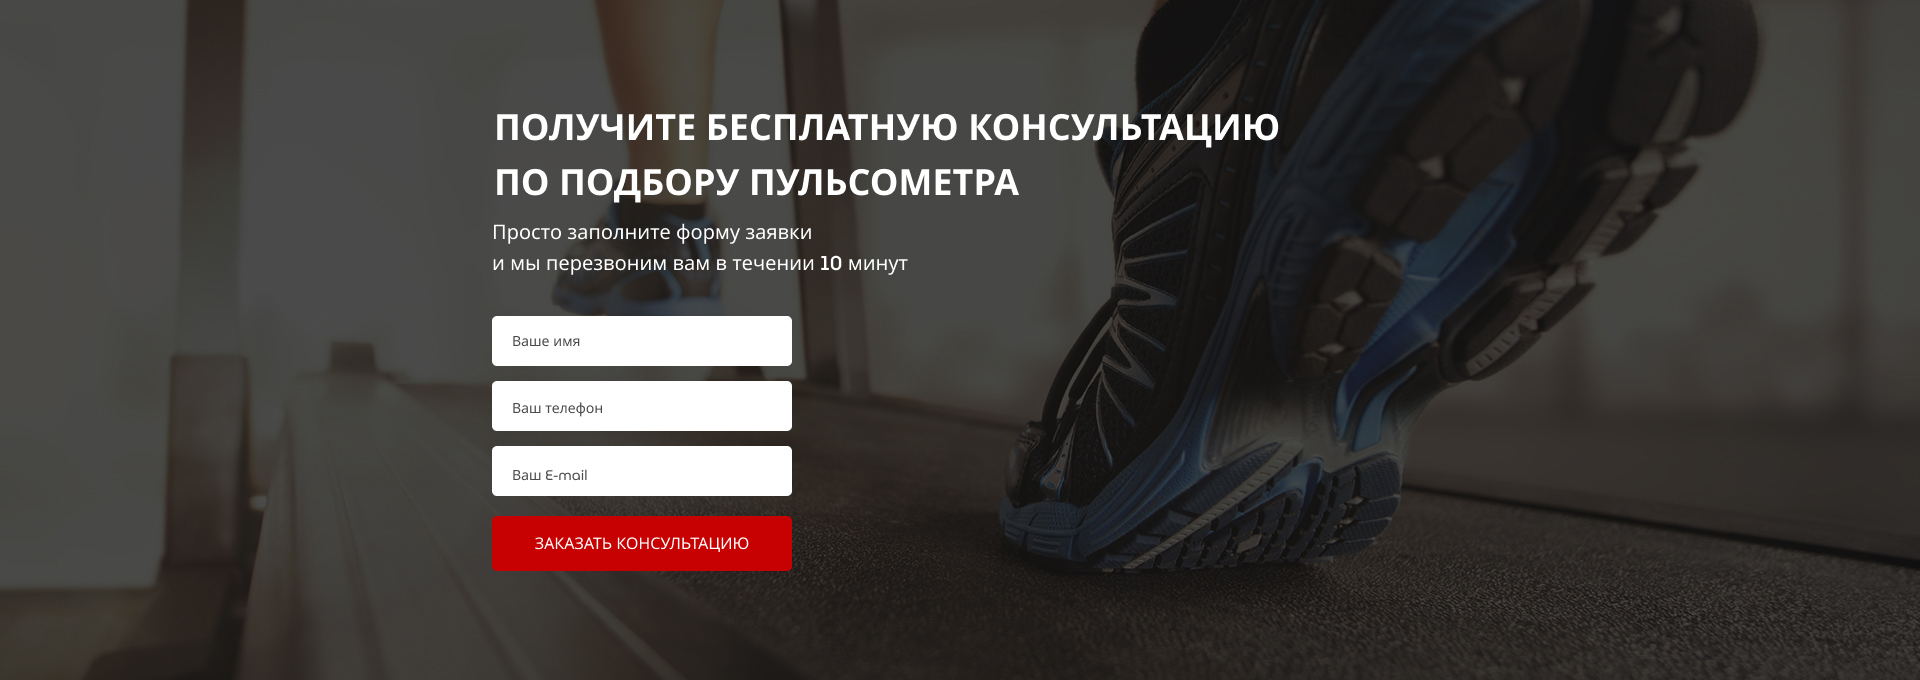
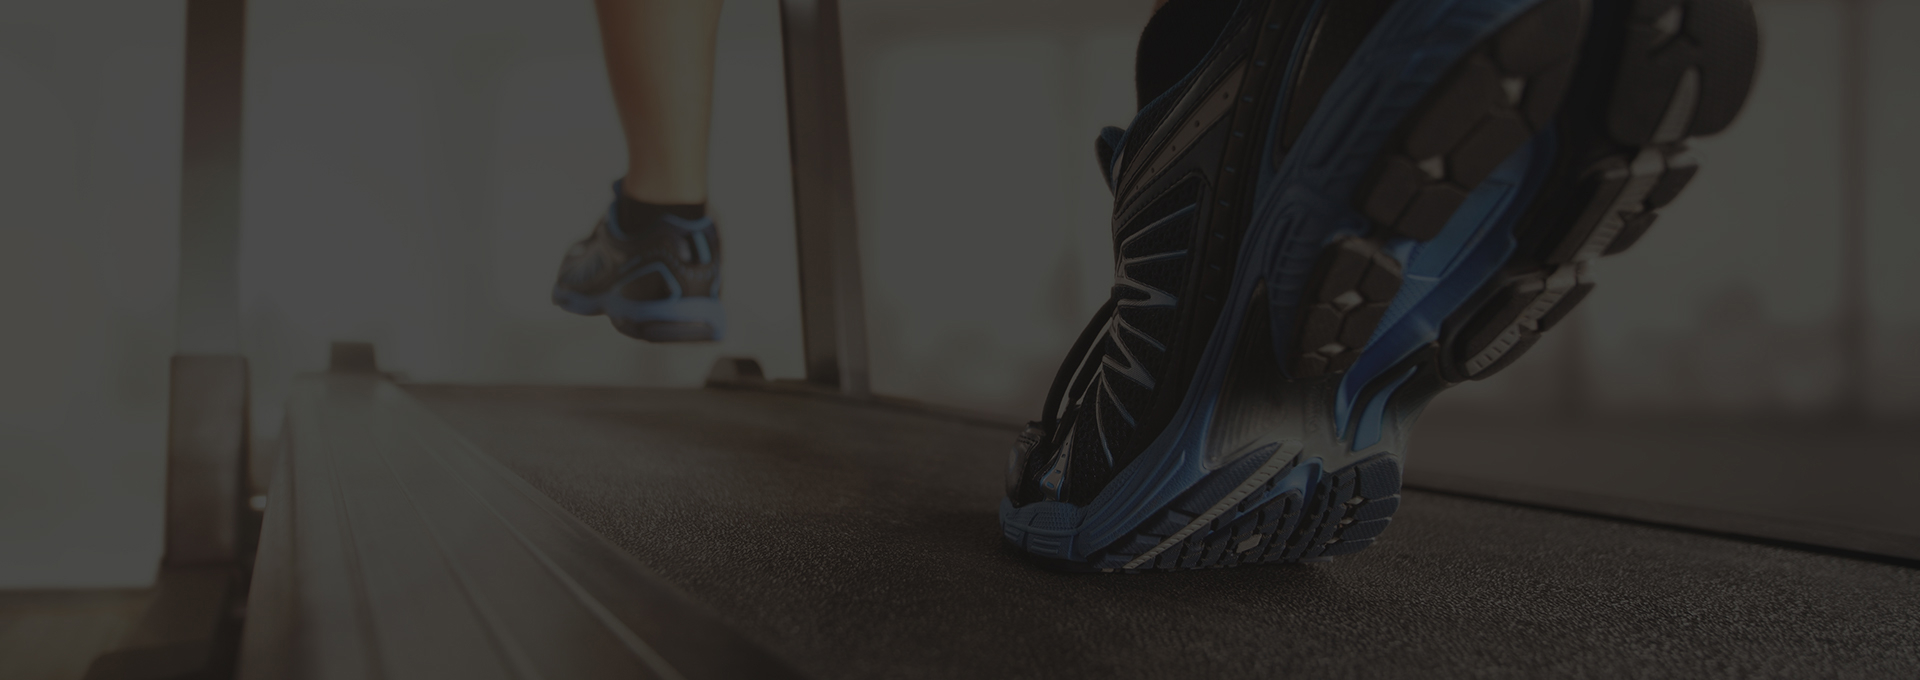
consultation screen v 0.3.0

diff --git a/src/css/style.min.css b/src/css/style.min.css
@@ -1,1 +1,1 @@
-*{box-sizing:border-box;font-family:MuseoModerno,sans-serif}.container{max-width:950px;margin:0 auto}.hamburger{visibility:hidden}.main{min-height:650px;padding:21px 0 93px 0;background:url(../../img/main/main_bg.jpg) center center/cover no-repeat}.main__wrapper{display:flex;flex-direction:column;align-items:flex-end;margin-top:90px}.main__header{color:#fff;font-weight:700;font-size:42px;text-transform:uppercase;line-height:42px}.main__subheader{margin-top:17px;color:#fff;font-weight:500;font-size:24px;line-height:24px;text-transform:uppercase}.main__icons{margin-top:60px;width:425px;display:flex;justify-content:space-between}.main__icon{width:108px;text-align:center;color:#fff;font-size:14px;font-weight:500}.main__icon img{display:block;margin:0 auto;margin-bottom:20px}.main__link{margin-top:18px;color:#fff;font-weight:500;font-size:16px}.main__link a{color:#fff;text-decoration:underline;text-transform:uppercase}.header{display:flex;justify-content:space-between;align-items:center}.header__logo{width:250px}.header__logo img{width:100%}.header__official{color:#fff;font-weight:500;font-size:12px;text-align:center}.header__official span{margin-top:7px;display:block;font-size:18px}.header__phone{display:block;font-weight:700;font-size:18px;color:#fff;text-decoration:none;transition:.3s all}.header__phone:hover{color:#fff;text-decoration:none;color:#c70101}.header__contacts{display:flex;flex-direction:column;align-items:flex-end}.button{width:150px;height:30px;border:none;border-radius:5px;color:#fff;background-color:#c70101;font-size:12px;font-weight:500;text-transform:uppercase}.button_main{margin-top:67px;width:300px;height:50px;font-size:16px}.title{font-weight:700;font-size:30px;color:#0d0d0d;text-transform:uppercase;text-align:center}.advantages{padding:70px 0 64px 0}.advantages__content{margin-top:60px;display:flex;justify-content:space-between;align-items:flex-start}.advantages__item{text-align:center;width:277px}.advantages__title{margin-top:35px;font-weight:700;font-size:18px;color:#0d0d0d}.advantages__text{margin-top:20px;font-weight:300;font-size:14px;line-height:18px;color:#0d0d0d}.advantages__text span{font-weight:300;font-size:14px;text-decoration-line:underline;color:red}@media(max-width:991px){.container{max-width:750px}.main__wrapper{margin-top:70px}.main____header{font-size:35px;line-height:30px}.main__subheader{margin-top:10px;font-size:20px}.advantages{padding:40px 0 37px 0}.advantages__content{margin-top:27px}.advantages__item{width:207px}}@media(max-width:767px){.container{max-width:550px}.header__logo{width:150px}.header__logo img{width:100%}.header__official span{margin-top:0;font-size:12px}.header__phone{font-size:14px}.button{width:129px}.button_main{margin-top:50px;width:220px;height:40px;font-size:14px}.main{min-height:500px;padding:15px 0 50px 0}.main__wrapper{margin-top:70px}.main__header{font-size:32px;line-height:10px}.main__subheader{font-size:16px}.main__icons{margin-top:40px;width:355px}.main__link{font-size:14px}.advantages{padding:20px 0 20px 0}.advantages__item{width:137px}.advantages__title{margin-top:15px;font-size:14px}.advantages__text{margin-top:10px;font-size:12px}.title{font-size:22px}}@media(max-width:575px){.container{max-width:300px}.header{display:none}.hamburger{visibility:visible;display:block;position:absolute;right:10px;width:26px;top:30px;right:30px;height:12px}.hamburger span{margin-bottom:2px;display:block;height:2px;width:100%;background-color:#fff;transition:.5s all}.hamburger__active span{margin-bottom:-2px}.hamburger__active span:nth-child(1){transform:translateY(3px) rotate(-45deg)}.hamburger__active span:nth-child(2){display:none}.hamburger__active span:nth-child(3){transform:translateY(3px) rotate(45deg)}.main__wrapper{margin-top:60px;align-items:center}.main__header{font-size:20px;line-height:0}.main__subheader{font-size:14px}.main__icons{width:300px;align-items:center}.title{font-size:20px}.advantages__content{margin-top:0;flex-direction:column;flex-wrap:wrap;align-items:center}.advantages__item{margin-top:30px;width:200px}}
+*{box-sizing:border-box;font-family:MuseoModerno,sans-serif}.container{max-width:950px;margin:0 auto}.hamburger{visibility:hidden}.main{min-height:650px;padding:21px 0 93px 0;background:url(../img/main/main_bg.jpg) center center/cover no-repeat}.main__wrapper{display:flex;flex-direction:column;align-items:flex-end;margin-top:90px}.main__header{color:#fff;font-weight:700;font-size:42px;text-transform:uppercase;line-height:42px}.main__subheader{margin-top:17px;color:#fff;font-weight:500;font-size:24px;line-height:24px;text-transform:uppercase}.main__icons{margin-top:60px;width:425px;display:flex;justify-content:space-between}.main__icon{width:108px;text-align:center;color:#fff;font-size:14px;font-weight:500}.main__icon img{display:block;margin:0 auto;margin-bottom:20px}.main__link{margin-top:18px;color:#fff;font-weight:500;font-size:16px}.main__link a{color:#fff;text-decoration:underline;text-transform:uppercase}.header{display:flex;justify-content:space-between;align-items:center}.header__logo{width:250px}.header__logo img{width:100%}.header__official{color:#fff;font-weight:500;font-size:12px;text-align:center}.header__official span{margin-top:7px;display:block;font-size:18px}.header__phone{display:block;font-weight:700;font-size:18px;color:#fff;text-decoration:none;transition:.3s all}.header__phone:hover{color:#fff;text-decoration:none;color:#c70101}.header__contacts{display:flex;flex-direction:column;align-items:flex-end}.button{width:150px;height:30px;border:none;border-radius:5px;color:#fff;background-color:#c70101;font-size:12px;font-weight:500;text-transform:uppercase}.button_main{margin-top:67px;width:300px;height:50px;font-size:16px}.button_submit{width:100%;height:55px;font-size:16px}.title{font-weight:700;font-size:30px;color:#0d0d0d;text-transform:uppercase;text-align:center}.title_left{color:#fff;font-size:36px;text-align:left}.advantages{padding:70px 0 64px 0}.advantages__content{margin-top:60px;display:flex;justify-content:space-between;align-items:flex-start}.advantages__item{text-align:center;width:277px}.advantages__title{margin-top:35px;font-weight:700;font-size:18px;color:#0d0d0d}.advantages__text{margin-top:20px;font-weight:300;font-size:14px;line-height:18px;color:#0d0d0d}.advantages__text span{font-weight:300;font-size:14px;text-decoration-line:underline;color:red}.consultation{min-height:680px;padding:100px 0 92px 0;background:url(../../img/consult/consult_bg.jpg) center center/cover no-repeat}.consultation__descr{color:#fff;font-weight:500;font-size:20px}.feed-form{margin-top:36px;width:300px;display:flex;flex-direction:column}.feed-form input{padding:0 20px;margin-bottom:15px;height:50px;border-radius:5px;border:none;background-color:#fff;font-weight:300;font-size:14px}.feed-form input:nth-child(3){margin-bottom:20px}.feed-form_submit{width:100%;height:55px;font-size:16px}@media(max-width:991px){.container{max-width:750px}.main__wrapper{margin-top:70px}.main____header{font-size:35px;line-height:30px}.main__subheader{margin-top:10px;font-size:20px}.advantages{padding:40px 0 37px 0}.advantages__content{margin-top:27px}.advantages__item{width:207px}}@media(max-width:767px){.container{max-width:550px}.header__logo{width:150px}.header__logo img{width:100%}.header__official span{margin-top:0;font-size:12px}.header__phone{font-size:14px}.button{width:129px}.button_main{margin-top:50px;width:220px;height:40px;font-size:14px}.button_submit{width:240px;height:45px;font-size:14px}.main{min-height:500px;padding:15px 0 50px 0}.main__wrapper{margin-top:70px}.main__header{font-size:32px;line-height:10px}.main__subheader{font-size:16px}.main__icons{margin-top:40px;width:355px}.main__link{font-size:14px}.advantages{padding:20px 0 20px 0}.advantages__item{width:137px}.advantages__title{margin-top:15px;font-size:14px}.advantages__text{margin-top:10px;font-size:12px}.title{font-size:22px}.consultation{padding:70px 0 60px 0;min-height:500px}.consultation__descr{font-size:16px}.feed-form{margin-top:20px}.feed-form input{height:40px;width:240px}}@media(max-width:575px){.container{max-width:300px}.header{display:none}.hamburger{visibility:visible;display:block;position:absolute;right:10px;width:26px;top:30px;right:30px;height:12px}.hamburger span{margin-bottom:2px;display:block;height:2px;width:100%;background-color:#fff;transition:.5s all}.hamburger__active span{margin-bottom:-2px}.hamburger__active span:nth-child(1){transform:translateY(3px) rotate(-45deg)}.hamburger__active span:nth-child(2){display:none}.hamburger__active span:nth-child(3){transform:translateY(3px) rotate(45deg)}.main__wrapper{margin-top:60px;align-items:center}.main__header{font-size:20px;line-height:0}.main__subheader{font-size:14px}.main__icons{width:300px;align-items:center}.title{font-size:20px}.advantages__content{margin-top:0;flex-direction:column;flex-wrap:wrap;align-items:center}.advantages__item{margin-top:30px;width:200px}.consultation{padding:30px 0 30px 0;min-height:300px}.consultation__descr{font-size:14px}.feed-form{align-items:center}}

diff --git a/src/index.html b/src/index.html
@@ -63,7 +63,7 @@
   </div>
   <div class="advantages">
     <div class="container">
-      <div class="title">НАШИ ПРЕИМУЩЕСТВА</div>
+      <h2 class="title">НАШИ ПРЕИМУЩЕСТВА</h2>
       <div class="advantages__content">
         <div class="advantages__item">
           <img src="icons/advantage/cup.png" alt="" class="adv__icon">
@@ -95,7 +95,21 @@
       </div>
     </div>
   </div>
+  <div class="consultation">
+    <div class="container">
+      <h2 class="title title_left">Получите бесплатную консультацию<br>по подбору пульсометра </h2>
+      <div class="consultation__descr">
+        Просто заполните форму заявки<br>и мы перезвоним вам в течении 10 минут
+      </div>
+      <form class="feed-form" action="#">
+        <input name="name" required type="text" placeholder="Ваше имя">
+        <input name="phone" required type="tel" placeholder="Ваш телефон">
+        <input name="email" required type="email" placeholder="Ваш E-mail">
+        <button class="button button_submit">Заказать консультацию</button>
+      </form>
+    </div>
 
+  </div>
 
 
   <script src="js/script.js"></script>

diff --git a/src/sass/base/_media.scss b/src/sass/base/_media.scss
@@ -55,6 +55,11 @@
       height: 40px;
       font-size: 14px;
     }
+    &_submit {
+      width: 240px;
+      height: 45px;
+      font-size: 14px;
+    }
   }
   .main {
     min-height: 500px;
@@ -93,6 +98,20 @@
   }
   .title {
     font-size: 22px;
+  }
+  .consultation {
+    padding: 70px 0 60px 0;
+    min-height: 500px;
+    &__descr {
+      font-size: 16px;
+    }
+  }
+  .feed-form {
+    margin-top: 20px;
+    input {
+      height: 40px;
+      width: 240px;
+    }
   }
 }
 
@@ -166,5 +185,15 @@
       margin-top: 30px;
       width: 200px;
     }
+  }
+  .consultation {
+    padding: 30px 0 30px 0;
+    min-height: 300px;
+    &__descr {
+      font-size: 14px;
+    }
+  }
+  .feed-form {
+    align-items: center;
   }
 }

diff --git a/src/sass/blocks/_forms.scss b/src/sass/blocks/_forms.scss
@@ -1,0 +1,24 @@
+.feed-form {
+  margin-top: 36px;
+  width: 300px;
+  display: flex;
+  flex-direction: column;
+  input {
+    padding: 0 20px;
+    margin-bottom: 15px;
+    height: 50px;
+    border-radius: 5px;
+    border: none;
+    background-color: #fff;
+    font-weight: 300;
+    font-size: 14px;
+    &:nth-child(3) {
+      margin-bottom: 20px;
+    }
+  }
+  &_submit {
+    width: 100%;
+    height: 55px;
+    font-size: 16px;
+  }
+}

diff --git a/src/sass/blocks/_main.scss b/src/sass/blocks/_main.scss
@@ -1,7 +1,7 @@
 .main {
   min-height: 650px;
   padding: 21px 0 93px 0;
-  background: url(../../img/main/main_bg.jpg) center (center / cover) no-repeat;
+  background: url(../img/main/main_bg.jpg) center (center / cover) no-repeat;
   &__wrapper {
     display: flex;
     flex-direction: column;

diff --git a/src/sass/blocks/_consultation.scss b/src/sass/blocks/_consultation.scss
@@ -1,0 +1,10 @@
+.consultation {
+  min-height: 680px;
+  padding: 100px 0 92px 0;
+  background: url(../../img/consult/consult_bg.jpg) center (center/cover) no-repeat;
+  &__descr {
+    color: #fff;
+    font-weight: 500;
+    font-size: 20px;
+  }
+}

diff --git a/src/sass/style.scss b/src/sass/style.scss
@@ -19,5 +19,7 @@
 @import "blocks/buttons";
 @import "blocks/title";
 @import "blocks/advantages";
+@import "blocks/consultation";
+@import "blocks/forms";
 
 @import "base/media";

diff --git a/src/sass/blocks/_title.scss b/src/sass/blocks/_title.scss
@@ -4,4 +4,9 @@
   color: #0d0d0d;
   text-transform: uppercase;
   text-align: center;
+  &_left {
+    color: #fff;
+    font-size: 36px;
+    text-align: left;
+  }
 }

diff --git a/src/sass/blocks/_buttons.scss b/src/sass/blocks/_buttons.scss
@@ -14,4 +14,9 @@
     height: 50px;
     font-size: 16px;
   }
+  &_submit {
+    width: 100%;
+    height: 55px;
+    font-size: 16px;
+  }
 }
